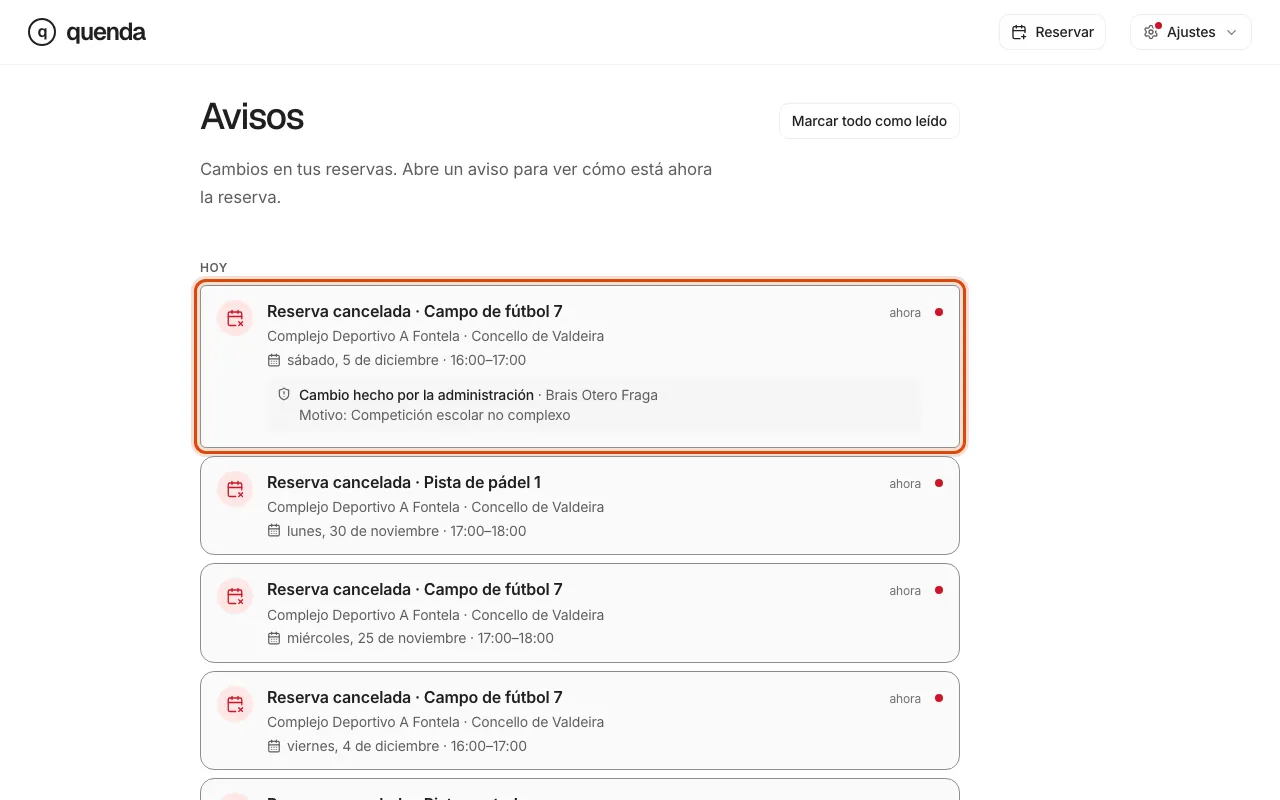
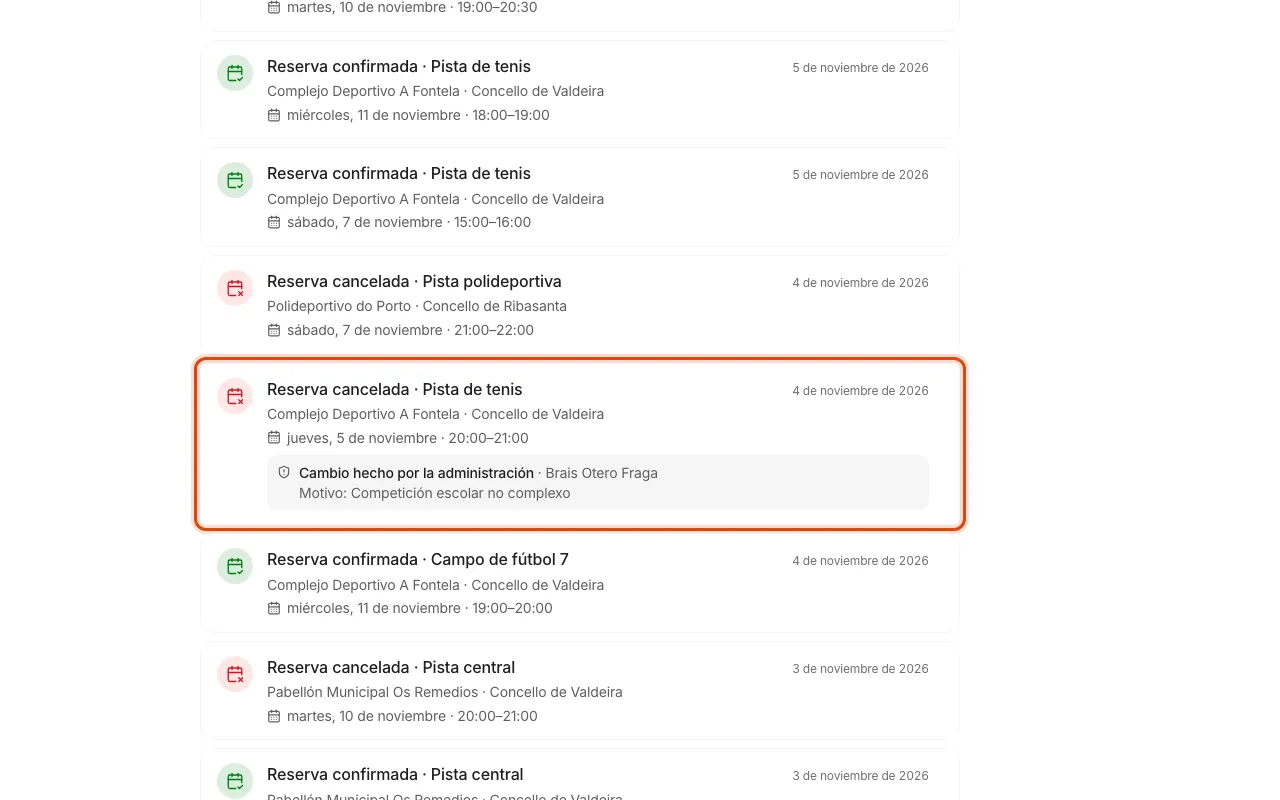
docs(capturas): keep the CU-03 header in view and page through older notices

diff --git a/web/docs-capture/cu-03-modificar-cancelar.spec.ts b/web/docs-capture/cu-03-modificar-cancelar.spec.ts
@@ -42,8 +42,12 @@ test("CU-03 modificar y cancelar una reserva", async ({ page }) => {
   await page.goto("/reservas");
   const item = page.locator(`a[href="${detail}"]`);
   await expect(item).toBeVisible();
-  await item.evaluate((node) => node.scrollIntoView({ block: "center" }));
+  // Vista más alta: cabecera, filtro y la reserva en la misma imagen.
+  await page.setViewportSize({ width: 1280, height: 1000 });
+  await page.evaluate(() => window.scrollTo(0, 0));
+  await expect(item).toBeInViewport();
   await shot(cu, page, "mis-reservas", { target: item });
+  await page.setViewportSize({ width: 1280, height: 800 });
   await item.click();
   await expect(
     page.getByRole("heading", { name: "Reserva confirmada", exact: true }),
@@ -180,6 +184,12 @@ test("CU-03 cambios que no se aplican", async ({ page }) => {
     .getByRole("link")
     .filter({ hasText: "Cambio hecho por la administración" })
     .first();
+  await expect(page.getByRole("heading", { name: "Avisos" })).toBeVisible();
+  const older = page.getByRole("button", { name: "Ver más avisos" });
+  for (let round = 0; round < 15 && !(await municipal.isVisible()); round++) {
+    await older.click();
+    await page.waitForLoadState("networkidle");
+  }
   await expect(municipal).toBeVisible();
   await shot(cu, page, "aviso-intervencion-municipal", { target: municipal });
   await municipal.click();
